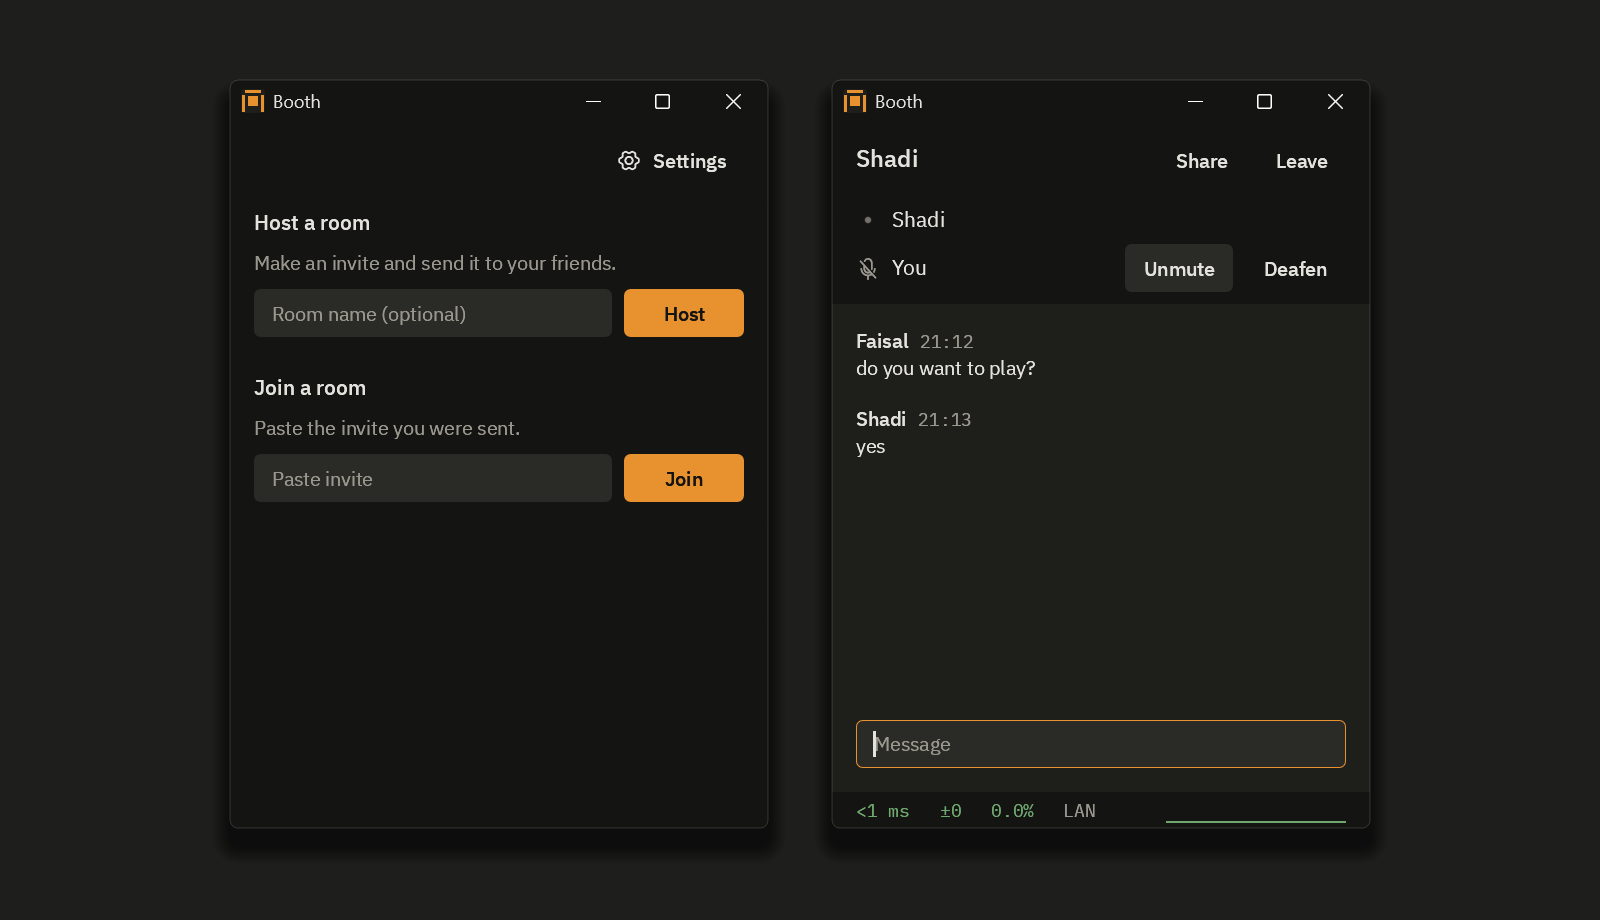
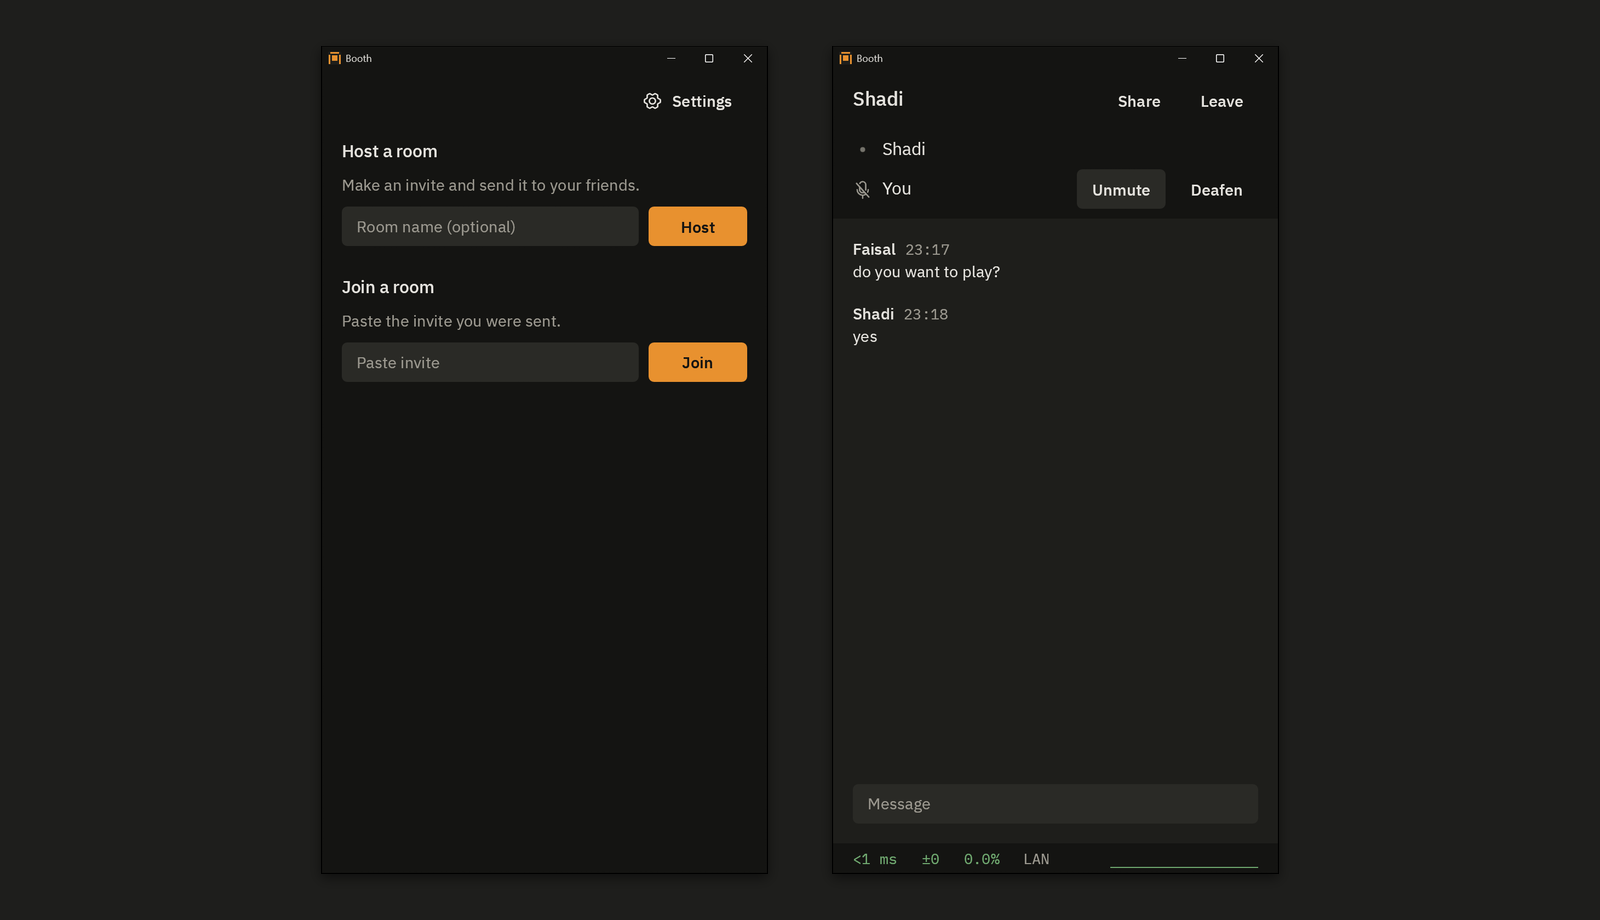
add the store link and new pictures

diff --git a/docs/index.html b/docs/index.html
@@ -27,6 +27,7 @@
   <p class="buttons">
     <a class="button primary" href="https://github.com/Shadi-Alrashoodi/booth/releases/download/v1.0.1/booth-1.0.1-setup.exe">Download the installer</a>
     <a class="button secondary" href="https://github.com/Shadi-Alrashoodi/booth/releases/download/v1.0.1/booth-1.0.1-windows-x64.zip">Download the zip</a>
+    <a class="button secondary" href="https://apps.microsoft.com/detail/9PDT1RSX3J4V">Microsoft Store</a>
   </p>
   <p class="badges">
     <a class="badge" href="https://github.com/Shadi-Alrashoodi/booth/releases/latest"><span>release</span><span>1.0.1</span></a>
@@ -40,7 +41,7 @@
   <div class="text">
     <section aria-labelledby="download">
       <h2 id="download">Download</h2>
-      <p>Run the installer, or unzip the zip anywhere and run booth.exe. It needs Windows 10 version 2004 or later, or Windows 11, <span class="nowrap">64-bit</span>, with a DirectX 12 graphics driver.</p>
+      <p>Run the installer, or unzip the zip anywhere and run booth.exe. It needs Windows 10 version 2004 or later, or Windows 11, <span class="nowrap">64-bit</span>, with a DirectX 12 graphics driver. The same app is in the <a href="https://apps.microsoft.com/detail/9PDT1RSX3J4V">Microsoft Store</a> as Booth Voice, and that copy is signed by Microsoft and updates through the Store.</p>
       <p>The exe is not code signed yet, so SmartScreen warns once (More info, then Run anyway), and Smart App Control on Windows 11 blocks it. The <a href="https://github.com/Shadi-Alrashoodi/booth/releases/latest">release page</a> has latest.txt, signed with minisign, with the SHA-256 of both files and the steps to check them.</p>
     </section>
 

diff --git a/README.md b/README.md
@@ -12,7 +12,7 @@
 
 ## Download
 
-Run the installer, or unzip the zip anywhere and run booth.exe. It needs Windows 10 version 2004 or later, or Windows 11, 64-bit, with a DirectX 12 graphics driver.
+Run the installer, or unzip the zip anywhere and run booth.exe. It needs Windows 10 version 2004 or later, or Windows 11, 64-bit, with a DirectX 12 graphics driver. The same app is in the [Microsoft Store](https://apps.microsoft.com/detail/9PDT1RSX3J4V) as Booth Voice, and that copy is signed by Microsoft and updates through the Store.
 
 The exe is not code signed yet, so SmartScreen warns once (More info, then Run anyway), and Smart App Control on Windows 11 blocks it. The [release page](https://github.com/Shadi-Alrashoodi/booth/releases/latest) has latest.txt, signed with minisign, with the SHA-256 of both files and the steps to check them.
 
